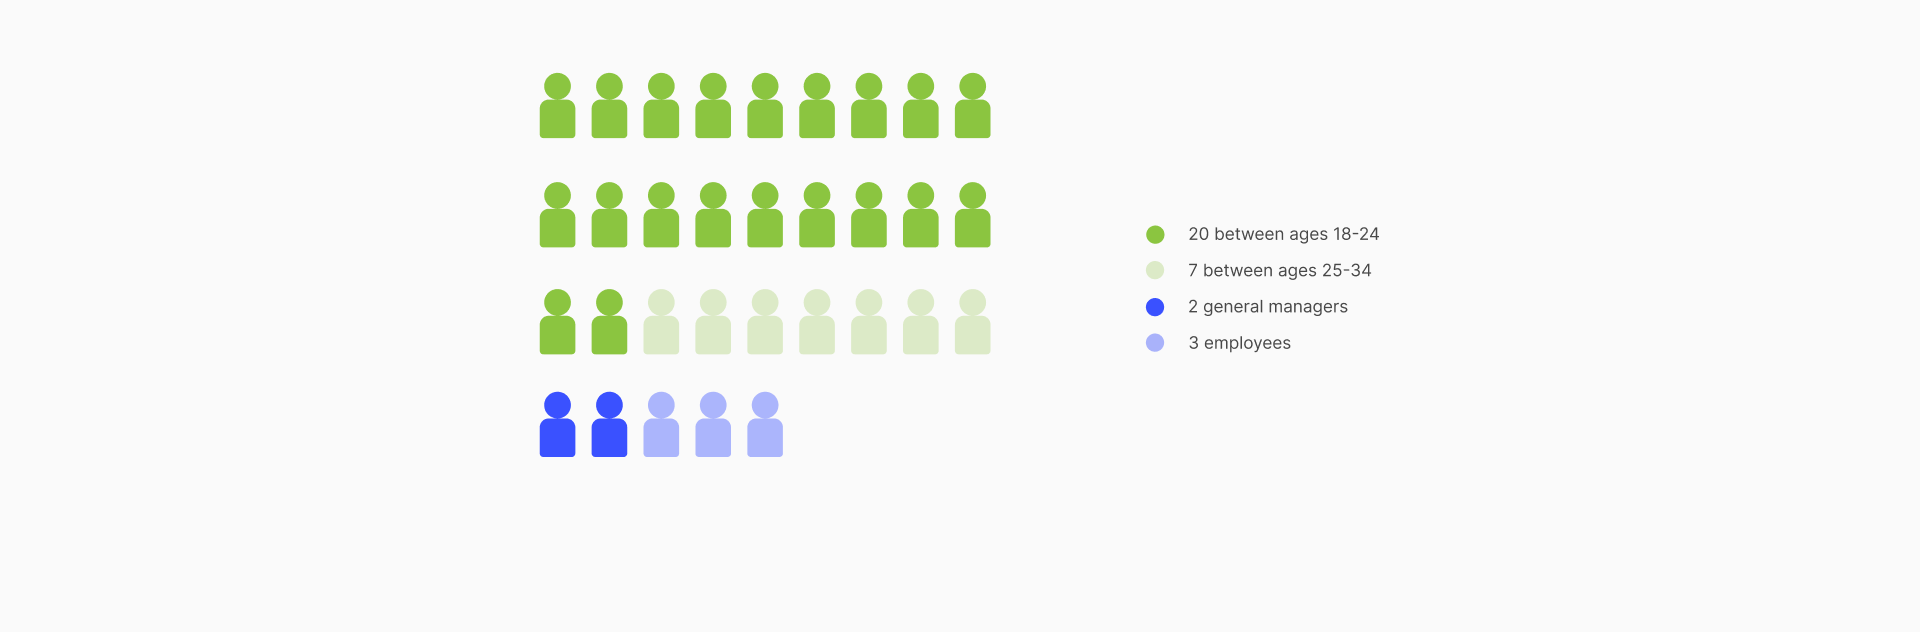
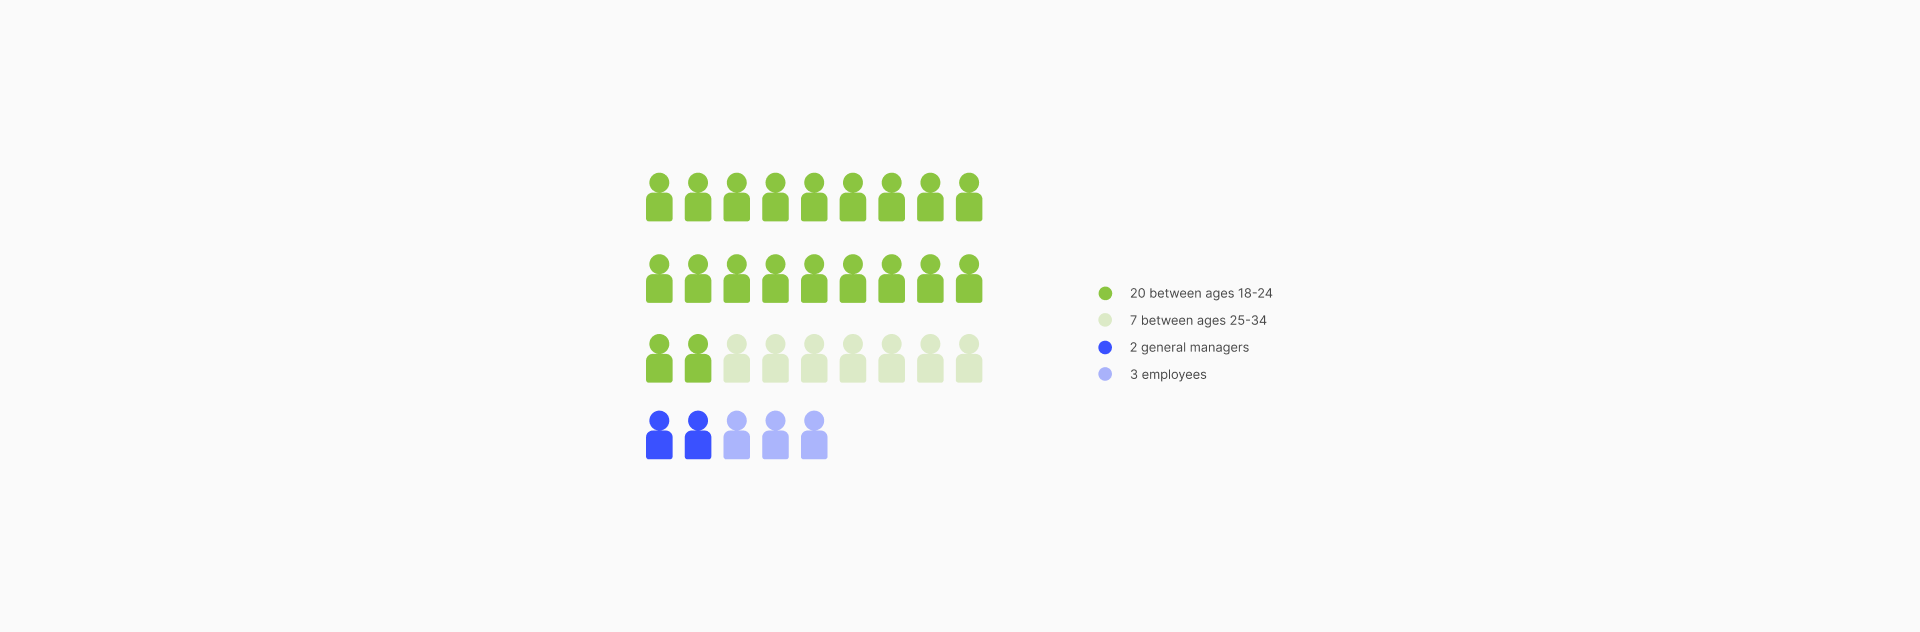
updated layout and details and copy for proj 4

diff --git a/html/project-4.html b/html/project-4.html
@@ -73,12 +73,12 @@
       <h2>From observation to solution.</h2>
  
       <!-- STEP 01 -->
-      <div class="process-step-full">
+      <div class="process-step-full-initial">
         <div class="process-step-header">
           <span class="step-num">01</span>
           <div>
             <p class="step-title">Brief</p>
-            <p class="step-desc">Hive Climbing came to us with a clear tension: their risk orientation process was time-consuming for staff, inconsistent across locations, and not always memorable for new climbers. Our brief was to explore how the orientation experience could be improved — whether through digital tools, physical redesigns, or process changes — without compromising on safety rigour.</p>
+            <p class="step-desc"><a href="https://www.sfu.ca/outlines.html?2024/fall/iat/333/d100" data-cursor="see more">IAT 333: Interaction Design Methods</a> is a course centered around designing meaningful interactive experiences in collaboration with real-world businesses. Our group managed to get a hold of The Hive Climbing Gym, who had plans of implementing a digitized version of their pre-climbing mandatory risk orientation.</p>
           </div>
         </div>
       </div>
@@ -89,8 +89,9 @@
           <span class="step-num">02</span>
           <div>
             <p class="step-title">Ethnographic Research</p>
-            <p class="step-desc">To begin this project, I conducted some ethnographic research to better understand the pain points of climbers and managers alike.</p>
+            <p>To begin this project, I conducted some ethnographic research to better understand the pain points of climbers and managers alike.</p>
             <p>I drafted up questions for climbers and collected data through a survey. I also went onsite to multiple Hive locations across Metro Vancouver to gain a better understanding of how the staff feel about the current risk orientation process.</p>
+            <p>The challenge for our group now was to balance user interest and engagement with knowledge retention.</p>
           </div>
         </div>
         <div class="step-img-wrap">
@@ -149,6 +150,7 @@
             <p class="step-desc">We came up with a couple user flows to help us picture what the common pain points and needs that different climbers might have during their risk orientation experience. These gaps became the design targets for our solution concepts.</p>
           </div>
         </div>
+        
         <!-- USER JOURNEY CAROUSEL -->
         <div class="carousel" id="carousel-journeys">
           <div class="carousel-track">
@@ -180,8 +182,12 @@
         <div class="process-step-header">
           <span class="step-num">05</span>
           <div>
-            <p class="step-title">Three Possible Solutions</p>
-            <p class="step-desc">We developed three distinct concepts to address the problem from different angles. <strong>Concept A</strong> was a self-guided kiosk orientation that members complete before speaking to staff, freeing up desk time. <strong>Concept B</strong> was a mobile-first pre-arrival orientation flow sent via QR code after booking, so members arrive already briefed. <strong>Concept C</strong> was a physical redesign of the orientation zone itself — using signage, floor graphics, and modular station cards to make the space do the teaching. Each concept was prototyped and tested with representative users.</p>
+            <p class="step-title">Three Solution Concepts</p>
+            <p >We developed three distinct concepts to address the problem from different angles, and I turned them into easy to digest graphics:
+              <p> <strong>Concept A: Game Based Kiosk</strong> was a self-guided kiosk orientation that members complete before speaking to staff, freeing up desk time. </p> 
+              <p> <strong>Concept B: Web Training Modules</strong> was a mobile-first orientation flow that climbers do after booking, but before climbing. </p>
+              <p class = step-desc><strong>Concept C: QR Code Scavenger Hunt</strong> was a physical redesign of the orientation zone itself — using signage, floor graphics, and modular station cards to make the space do the teaching.</p>
+            </p>
           </div>
         </div>
         <!-- FINAL CONCEPT CAROUSEL -->
@@ -222,7 +228,7 @@
           <span class="step-num">06</span>
           <div>
             <p class="step-title">Final Solution</p>
-            <p class="step-desc">The final solution combined the strongest elements of all three concepts. A pre-arrival mobile orientation flow handles foundational knowledge before members walk in, reducing in-person time. On arrival, redesigned signage reinforces key safety points passively. Staff retain a brief, focused confirmation conversation rather than delivering the full brief from scratch. The result is an orientation that's faster, more consistent, and more likely to actually be remembered.</p>
+            <p class="step-desc">After feedback from our instructor and peers, we decided that the most effective solution that maintains user engagement and retention, as well as consistency is Concept A: Game-Based Quiz Kiosk. The final step for us as a team is to prototype the concept.</p>
           </div>
         </div>
       </div>
@@ -231,9 +237,9 @@
  
     <div class="content-section reveal">
       <p class="content-label">Final Product</p>
-      <h2>The concept, in full.</h2>
-      <p>The final prototype spans three touchpoints — a pre-arrival mobile flow, redesigned in-gym signage, and a streamlined staff confirmation checklist — unified by a clear visual language and plain-language safety content.</p>
-      <p>Feel free to go through the prototype below.</p>
+      <h2>Gameified Orientation</h2>
+      <p>Inspired by applications like Khan Academy and Duolingo, our final prototype guides users through a detailed , step by step orientation with easy to understand visuals while keeping them engaged with an interactive segment that tests to see if they understood the material.</p>
+      <p>Feel free to go through the prototype below. (It's more effective on fullscreen mode!) </p>
         <div class="video-wrap">
           <iframe
             src="https://www.figma.com/embed?embed_host=share&url=https://www.figma.com/proto/dOmGxJFcISz3mqHCtCcbFs/IAT333-Group-Project?page-id=2623%3A2029&node-id=2623-2031&viewport=1531%2C760%2C0.21&t=WdyoAW5jy55lFHrg-1&scaling=scale-down&content-scaling=fixed&starting-point-node-id=2668%3A2014"
@@ -242,19 +248,12 @@
             allowfullscreen>
           </iframe>
         </div>
-    
     </div>
  
     <div class="content-section reveal">
       <p class="content-label">Reflection</p>
       <h2>What we learned</h2>
-      <p>Testing the final prototype with users showed measurable improvements in orientation completion time and self-reported confidence around safety rules. The project surfaced how much orientation design relies on timing — delivering information at the right moment, not just the right content.</p>
-      <div class="outcome-grid">
-        <div class="outcome-item"><p class="outcome-num">3</p><p class="outcome-label">Personas developed</p></div>
-        <div class="outcome-item"><p class="outcome-num">3</p><p class="outcome-label">Solution concepts prototyped</p></div>
-        <div class="outcome-item"><p class="outcome-num">3</p><p class="outcome-label">Touchpoints in final design</p></div>
-        <div class="outcome-item"><p class="outcome-num">10wk</p><p class="outcome-label">Brief to final prototype</p></div>
-      </div>
+      <p>While gameifying the orientation does make the process feel more interesting, it is still a time consuming process for climbers. While this streamlines the process for the managers and instructors at The Hive, it is not yet optimized for the climbers who may end up using the product.</p>
     </div>
  
   </div>

diff --git a/css/project-style.css b/css/project-style.css
@@ -96,6 +96,7 @@ a:has(.nav-logo):hover .nav-logo-hover { opacity: 1; }
   overflow: hidden;
   aspect-ratio: 16 / 9;
   border: 1px solid var(--faint);
+  
 }
 
 .video-wrap iframe {
@@ -286,6 +287,7 @@ a:has(.nav-logo):hover .nav-logo-hover { opacity: 1; }
   justify-content: center;
   gap: 16px;
   margin-top: 14px;
+  margin-bottom: 2rem;
 }
  
 .btn {
@@ -330,8 +332,12 @@ a:has(.nav-logo):hover .nav-logo-hover { opacity: 1; }
 
 
 /* ── PROCESS STEPS WITH IMAGES ── */
+.process-step-full-initial{
+  padding-top: 2rem;
+}
+
 .process-step-full {
-  padding: 3rem 0;
+  padding-top: 5rem;
 }
 
 .process-step-full:first-child { border-top: 1px solid var(--faint); }
@@ -341,7 +347,7 @@ a:has(.nav-logo):hover .nav-logo-hover { opacity: 1; }
   grid-template-columns: 48px 1fr;
   gap: 1.5rem;
   align-items: start;
-  margin-bottom: 1rem;
+  /* margin-bottom: 1rem; */
 }
 
 .step-num {
@@ -358,6 +364,7 @@ a:has(.nav-logo):hover .nav-logo-hover { opacity: 1; }
 }
 
 .step-desc {
+  padding-bottom: 1rem;
   font-size: 0.8rem;
   color: var(--muted);
   line-height: 1.7;
